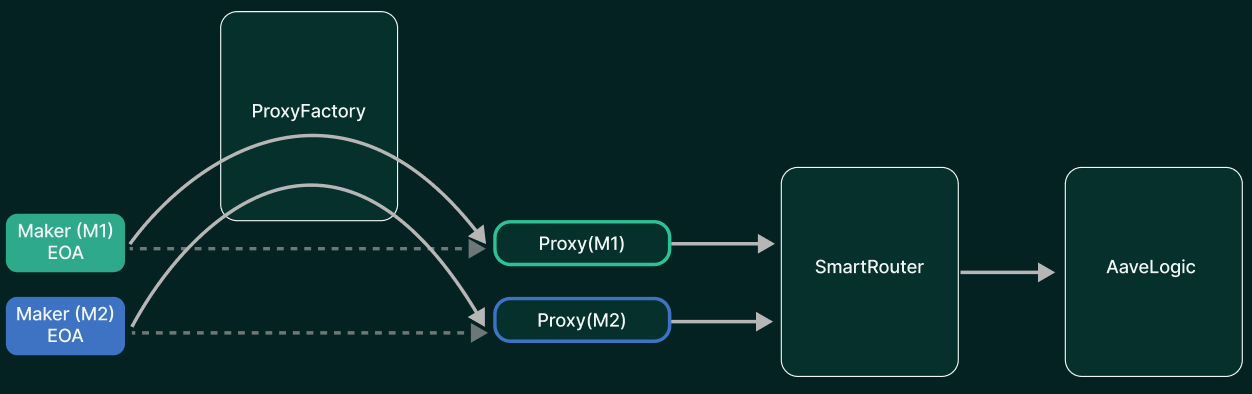
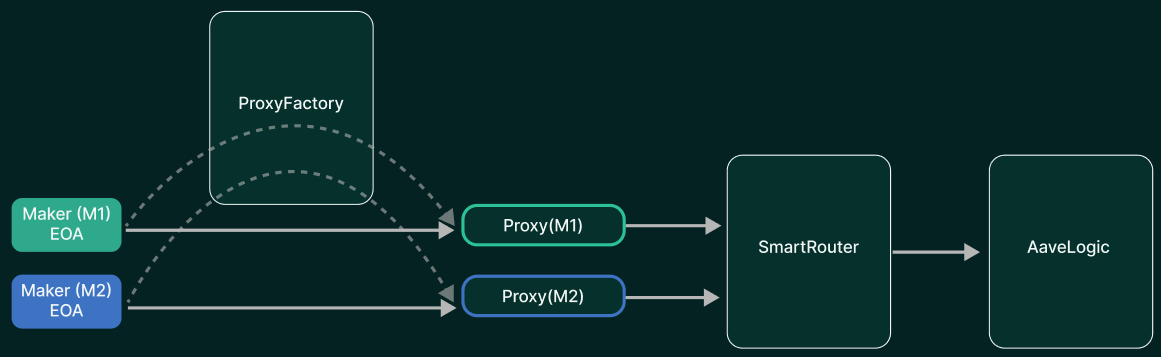
updating Router and Forwarder pages with Jean comments + removing Snipe guide

diff --git a/docs/developers/strat-lib/background/offer-maker/forwarder.md b/docs/developers/strat-lib/background/offer-maker/forwarder.md
@@ -13,18 +13,6 @@ Useful things to note:
 
 For each user, a `RouterProxy` is created. To do this, we use Ethereum's `CREATE2` opcode to deploying contracts with predictable addresses. The Forwarder uses the corresponding `RouterProxy` address to operate.
 
-## How inbound tokens are handled (from the taker)
-
-After the funds have been transferred from the taker to the Forwarder contract, it transfers the funds to the reserve of the offer owner. The reason for this, is that it cannot leave the funds on the contract, since the inbound tokens need to be distributed to each offer owners. When the offer has been successfully taken, it has no funds on the contract itself (vs. Direct where the funds are still on the contract). It therefore has no extra actions and just uses the default implementation of MangroveOffer.
-
-## How outbound tokens are handled (to the taker)
-
-Since the contract cannot be used as the reserve for a Forwarder contract, this means that is also has to transfer the funds from the reserve to the Forwarder contract. This is again because multiple users can use the contract.
-
-## Reserve
-
-When setting the reserve using a Forwarder contract it first checks if the maker is trying to set an empty address. This is allowed and the makers address will be used as the reserve. If the address is not empty, then it checks whether the address has approved the maker to use it as its reserve. This is different than Direct, since Forwarder has multiple makers, it has to keep track on which makers can use a reserve. The reserve needs to call the Forwarder contract to approve a maker. The reserve can also revoke the approval.
-
 ## Provision tracking
 
 If the offer fails, then this means that the taker was given a bounty for using gas trying to take a failing offer. But the bounty for the taker, is not necessarily the same amount as the amount that was provisioned for the offer. If there is still some provision left on the offer, Forwarder keeps track of the remaining provision that is no longer locked to the offer. The same way it keeps track of who owns an offer, it also tracks how much free provision is left on the offer.

diff --git a/docs/developers/strat-lib/technical-references/router.md b/docs/developers/strat-lib/technical-references/router.md
@@ -22,9 +22,9 @@ The [`SimpleRouter` contract](./code/strats/src/strategies/routers/SimpleRouter)
 
 ### `SmartRouter`
 
-The [`SmartRouter` contract](https://github.com/mangrovedao/mangrove-strats/blob/feat/smartRouter/src/strategies/routers/SmartRouter.sol) is an implementation, and does not need to be called directly. It delegates pull and push logic implementation to arbitrary contracts that implement the [`AbstractRoutingLogic` interface](https://github.com/mangrovedao/mangrove-strats/blob/feat/smartRouter/src/strategies/routing_logic/abstract/AbstractRoutingLogic.sol). It implements `SimpleRouter` as its default route.
+The [`SmartRouter` contract](https://github.com/mangrovedao/mangrove-strats/blob/feat/smartRouter/src/strategies/routers/SmartRouter.sol) is an implementation, and must not be called directly. It delegates pull and push logic implementation to arbitrary contracts that implement the [`AbstractRoutingLogic` interface](https://github.com/mangrovedao/mangrove-strats/blob/feat/smartRouter/src/strategies/routing_logic/abstract/AbstractRoutingLogic.sol). It implements `SimpleRouter` as its default route.
 
-Every time someone calls the [ProxyFactory](https://github.com/mangrovedao/mangrove-strats/blob/develop/src/strategies/routers/RouterProxyFactory.sol), a dedicated RouterProxy is created for the caller that will forward all the push/pull calls to the SmartRouter, which forward those to the corresponding routing logic (ex: AaveLogic).
+When requested to do so, the [ProxyFactory](https://github.com/mangrovedao/mangrove-strats/blob/develop/src/strategies/routers/RouterProxyFactory.sol) deploys a RouterProxy. It is created specifically for the caller, and will forward all the push/pull calls to the SmartRouter, which forward those to the corresponding routing logic (ex: AaveLogic).
 
 Thefore, the push/pull functions are delegated from the *Proxy > SmartRouter > RoutingLogic*.
 The Proxy contract basically works like an intelligent router.
